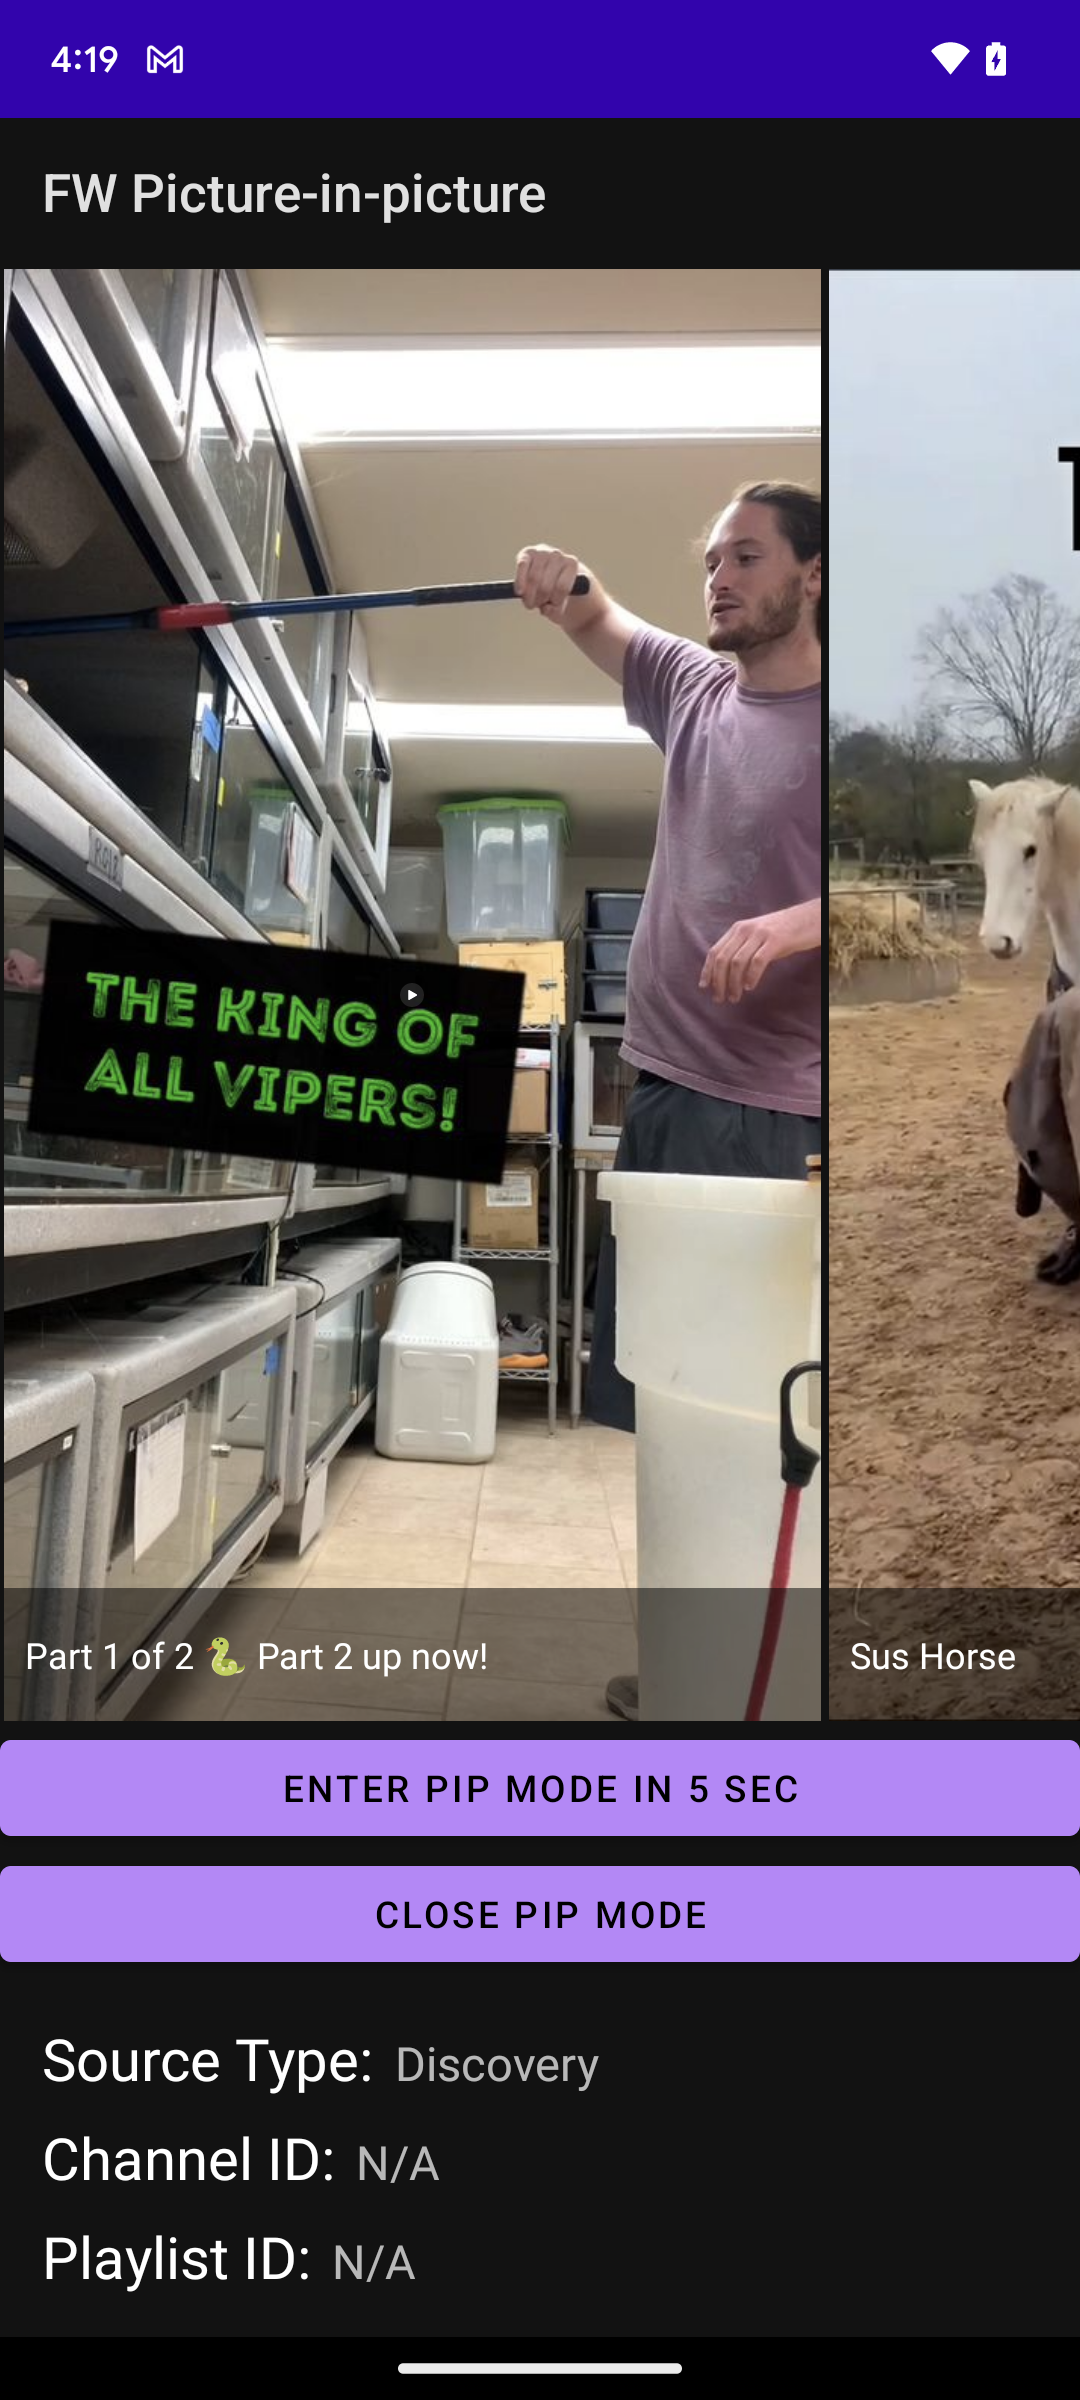
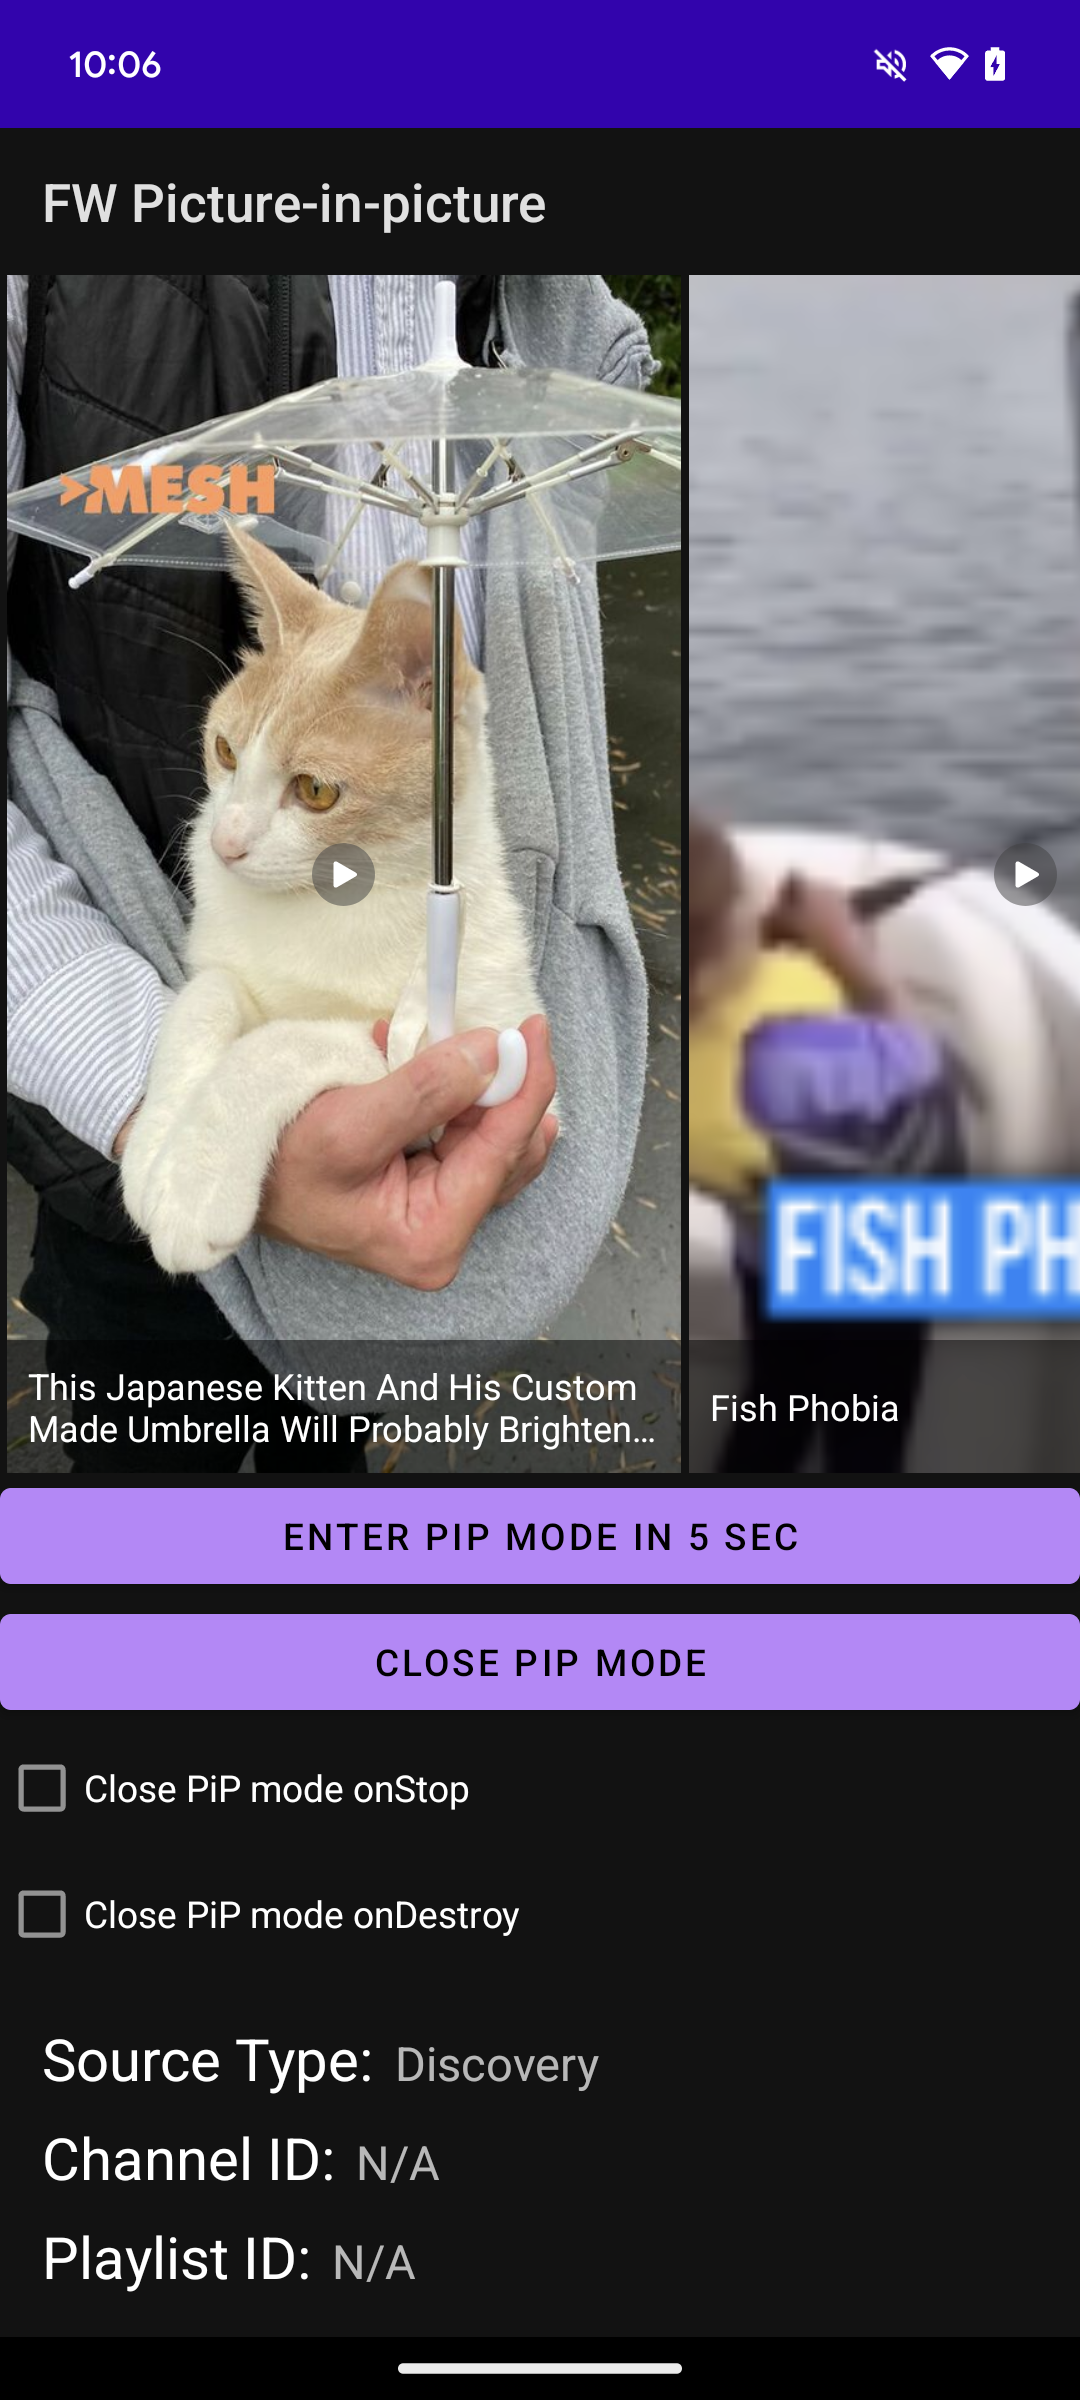
Add closeOnDestory and closeOnStop to PiP example
**What**
- Adding `closeOnDestory` and `closeOnStop` to the PiP example app

**Why**
- Customer needs to know how to do it

diff --git a/picture_in_picture/app/src/main/java/com/firework/example/pictureinpicture/MainActivity.kt b/picture_in_picture/app/src/main/java/com/firework/example/pictureinpicture/MainActivity.kt
@@ -89,7 +89,19 @@ class MainActivity : AppCompatActivity() {
         }
     }
 
+    override fun onStop() {
+        Log.i(TAG, "onStop - isFinishing: $isFinishing")
+        if (binding.closePipOnStop.isChecked && isFinishing) {
+            FireworkSdk.closePip()
+        }
+        super.onStop()
+    }
+
     override fun onDestroy() {
+        Log.i(TAG, "onDestroy")
+        if (binding.closePipOnDestroy.isChecked) {
+            FireworkSdk.closePip()
+        }
         binding.fwVideoFeedView.destroy()
         super.onDestroy()
     }
